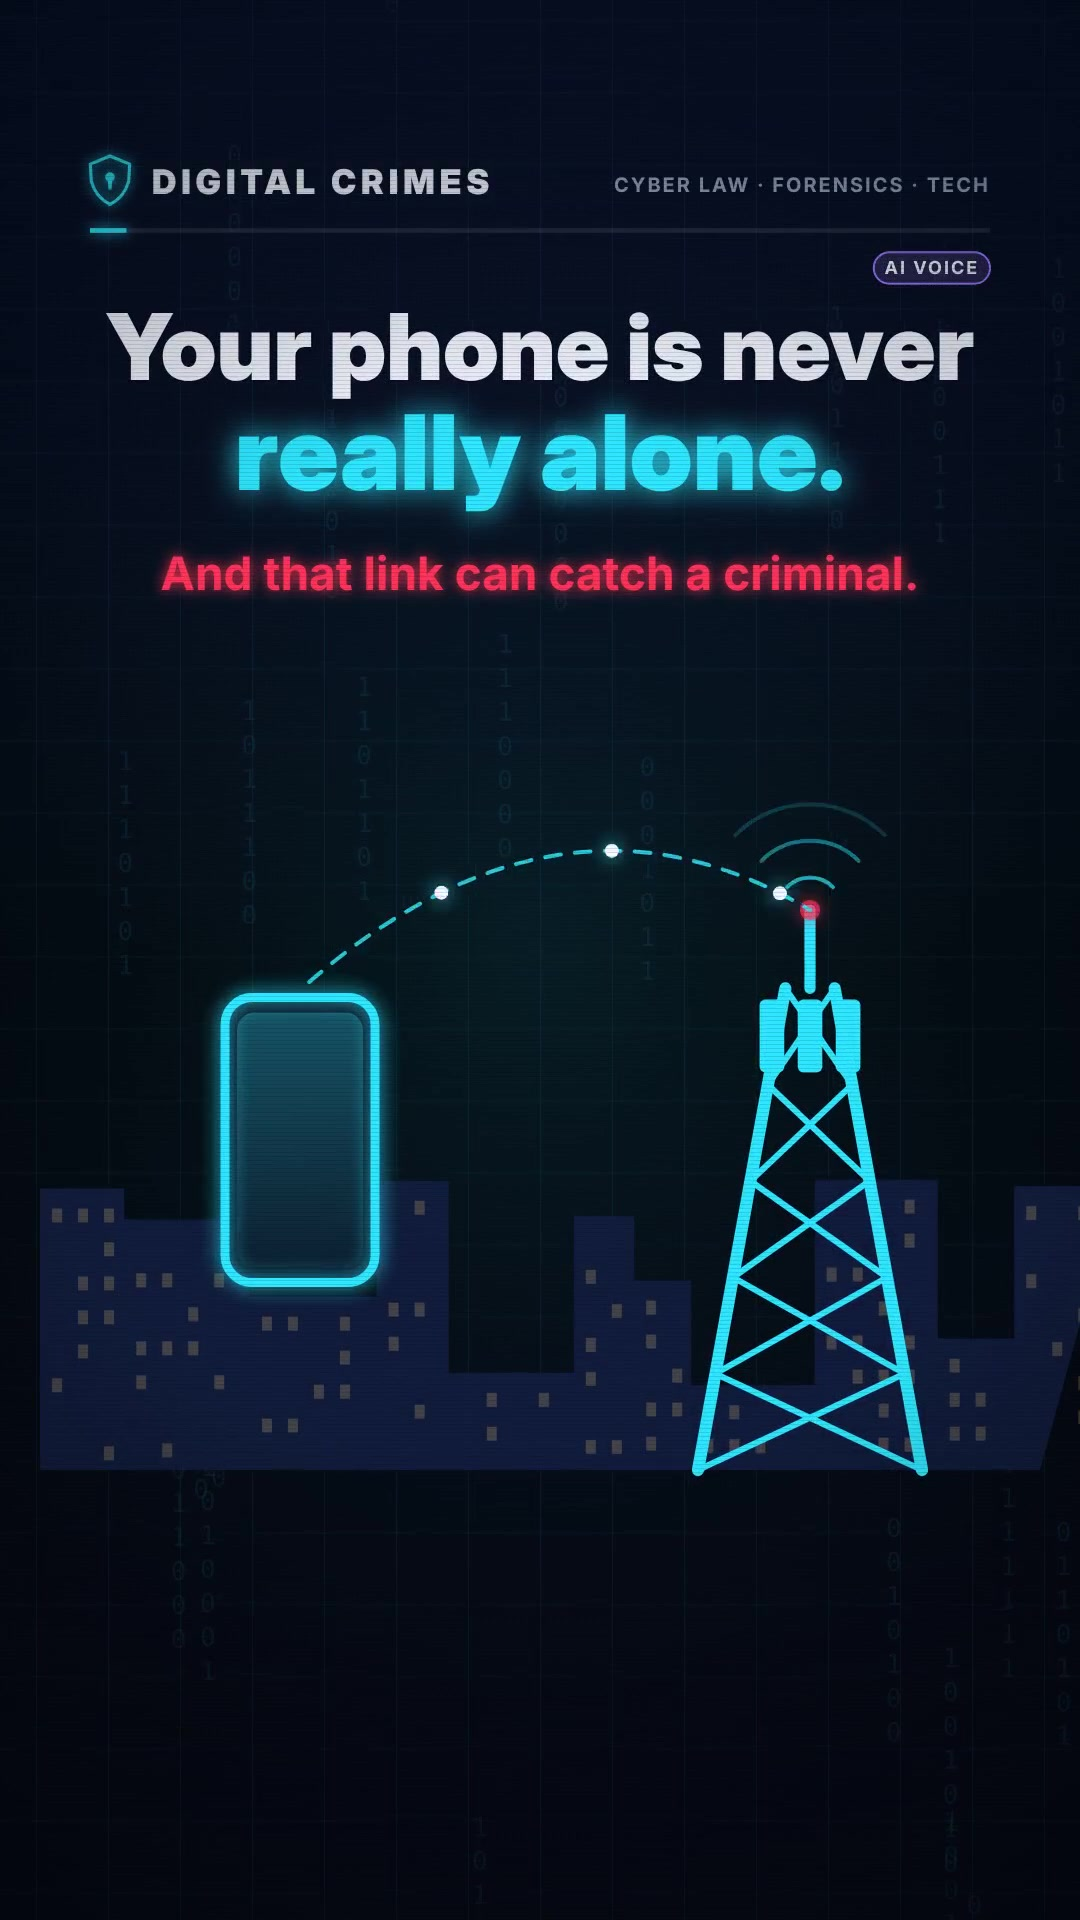
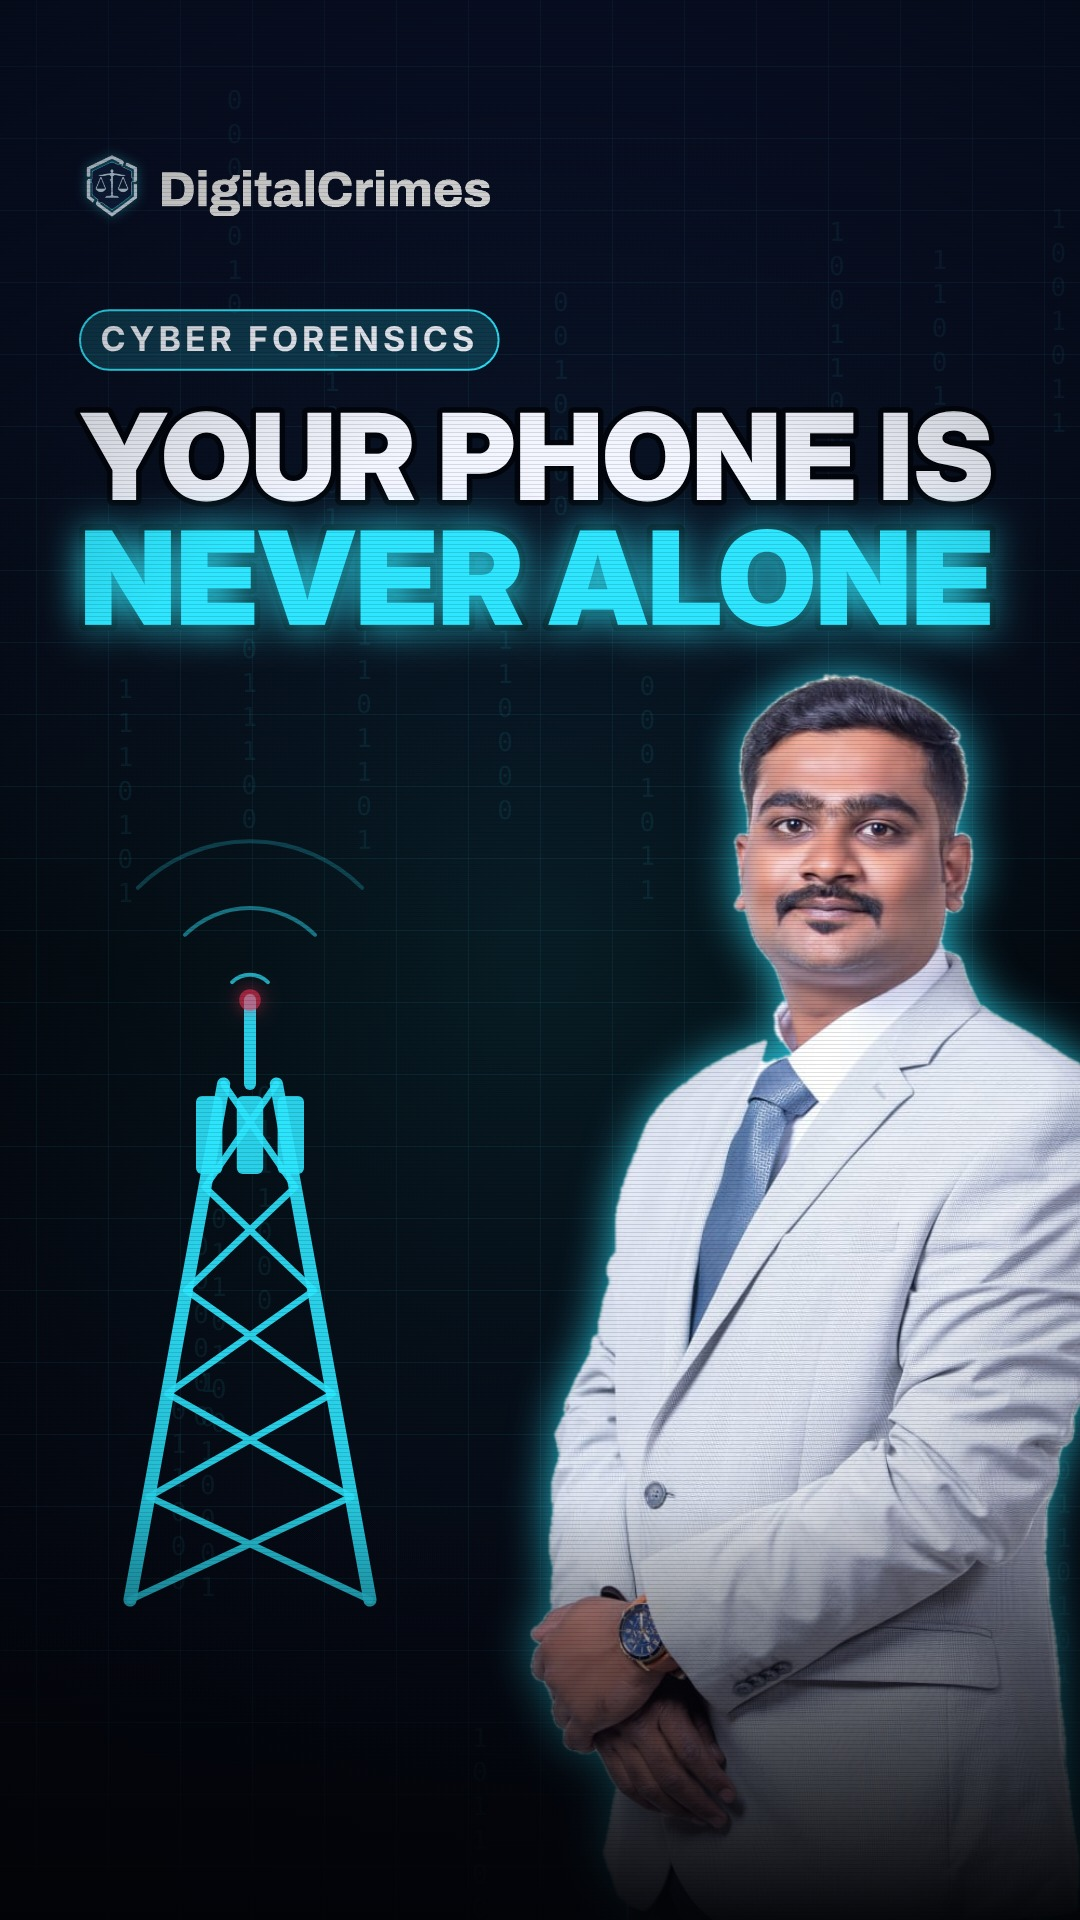
Owner's cover photos; cover layout keeps the face clear of the hook; EP01 cover with photo
Claude-Session: https://claude.ai/code/session_014nqfkbysfnT8S8tPzyjyoz

diff --git a/engine/reel_template.html b/engine/reel_template.html
@@ -185,16 +185,18 @@ function outro(lt,laws){logoHUD(540,800,190,lt);
 // inside the profile-grid crop (y 240-1680).
 const PERSON=new Image();let PERSON_OK=false;
 function drawCover(){const C=window.EPISODE.coverSpec;if(!C)return false;ctx.setTransform(1,0,0,1,0,0);bg(3.0);
-  const P=PERSON_OK;if(C.visual)C.visual(P);
-  if(P){const h=1250,s=h/PERSON.height,w=PERSON.width*s,x=1080-w+(C.personShift||90),y=1780-h;
-    ctx.save();ctx.shadowColor='rgba(46,230,255,0.85)';ctx.shadowBlur=46;ctx.drawImage(PERSON,x,y,w,h);ctx.restore();
-    ctx.save();ctx.globalCompositeOperation='source-atop';const rg=ctx.createLinearGradient(x,0,x+w,0);rg.addColorStop(0,'rgba(46,230,255,0.10)');rg.addColorStop(0.5,'rgba(0,0,0,0)');ctx.fillStyle=rg;ctx.fillRect(x,y,w,h);ctx.restore();}
-  const g=ctx.createLinearGradient(0,1480,0,1920);g.addColorStop(0,'rgba(3,5,11,0)');g.addColorStop(1,'rgba(3,5,11,0.96)');ctx.fillStyle=g;ctx.fillRect(0,1480,1080,440);
+  const P=PERSON_OK;
+  // headline geometry first, so the face never sits under the text
+  const x=P?80:540,maxW=P?920:940;let y=P?500:600;const L=C.lines.map(([t,c])=>{const sz=fit(t,900,DISP,maxW,P?150:180);const o={t,c,sz,y};y+=sz*1.04;return o;});
+  const textBottom=y-(L.length?L[L.length-1].sz*1.04:0)+28;
+  if(C.visual)C.visual(P);
+  if(P){const h=C.personH||1300,s=h/PERSON.height,w=PERSON.width*s,px=1080-w+(C.personShift??60),py=Math.max(textBottom+20,C.personTop||0);
+    ctx.save();ctx.shadowColor='rgba(46,230,255,0.85)';ctx.shadowBlur=46;ctx.drawImage(PERSON,px,py,w,h);ctx.restore();}
+  const g=ctx.createLinearGradient(0,1500,0,1920);g.addColorStop(0,'rgba(3,5,11,0)');g.addColorStop(1,'rgba(3,5,11,0.96)');ctx.fillStyle=g;ctx.fillRect(0,1500,1080,420);
   if(C.tag)pill(P?80:540,340,C.tag,C.tagColor||COL.cyan,{size:34,ls:4,align:P?'left':'center',fillA:'33'});
-  const maxW=P?620:940,x=P?80:540;let y=P?540:600;
-  C.lines.forEach(([t,c])=>{const sz=fit(t,900,DISP,maxW,P?150:180);ctx.save();ctx.font=font(900,sz,DISP);ctx.textAlign=P?'left':'center';ctx.lineJoin='round';
+  L.forEach(({t,c,sz,y})=>{ctx.save();ctx.font=font(900,sz,DISP);ctx.textAlign=P?'left':'center';ctx.lineJoin='round';
     ctx.lineWidth=sz*0.09;ctx.strokeStyle='rgba(2,4,10,0.9)';ctx.strokeText(t,x,y);ctx.fillStyle=c||COL.white;if(c&&c!==COL.white){ctx.shadowColor=c;ctx.shadowBlur=40;}
-    ctx.fillText(t,x,y);ctx.restore();y+=sz*1.04;});
+    ctx.fillText(t,x,y);ctx.restore();});
   logoMark(112,186,34);brand(162,208,46);overlay();return true;}
 window.renderCover=(q=0.92)=>drawCover()?cv.toDataURL('image/jpeg',q):null;
 
@@ -366,9 +368,9 @@ window.EPISODE={
   aiVoice:false,            // set by render.py when the cloned-voice track is used
   laws:'BNSS 2023 · BSA 2023 · DoT Unified Licence',
   cover:[0,4.2],            // fallback cover frame [scene index, local time] when there is no coverSpec
-  coverSpec:{tag:'CYBER FORENSICS',lines:[['YOUR PHONE',COL.white],['IS NEVER',COL.white],['ALONE',COL.cyan]],
-    person:null,           // e.g. 'people/shocked_phone.png' (owner's own cut-out photo)
-    visual:P=>{ctx.save();ctx.globalAlpha=0.9;tower(P?330:540,1560,P?560:640,COL.cyan,0.6);waves(P?330:540,P?1000:920,0.4,COL.cyan,3,200,0.9);ctx.restore();}},
+  coverSpec:{tag:'CYBER FORENSICS',lines:[['YOUR PHONE IS',COL.white],['NEVER ALONE',COL.cyan]],
+    person:'people/grey_blazer_tie.png', // owner's cut-out from assets/people/ (rotate daily; null = no photo)
+    visual:P=>{ctx.save();ctx.globalAlpha=0.9;tower(P?250:540,1600,P?600:640,COL.cyan,0.6);waves(P?250:540,P?1000:960,0.4,COL.cyan,3,200,0.9);ctx.restore();}},
   scenes:[
     {id:'hook',fn:sHook,dur:8.0,min:5.0,pops:[[0.2,660],[0.55,880],[1.0,520,0.1]],risers:[2.8],impacts:[[3.4,0.8,16]],
      vo:'Your phone is never really alone. It stays connected to a mobile tower, and that connection can catch a criminal.'},

diff --git a/assets/people/README.md b/assets/people/README.md
@@ -1,7 +1,14 @@
 # Owner's cut-out photos for reel covers
 
-Transparent PNG cut-outs of the channel owner only (waist-up works best), e.g.
-`shocked_phone.png`, `pointing_up.png`, `explaining.png`, `serious_arms_crossed.png`, `thinking.png`.
+| File | Look |
+| --- | --- |
+| grey_blazer_tie.png | light grey blazer, blue tie, three-quarter turn |
+| grey_blazer.png | light grey blazer, light blue shirt, three-quarter turn |
+| black_suit_front.png | black suit, white shirt, facing camera |
+| black_suit_side.png | black suit, white shirt, three-quarter turn |
+| black_suit_glasses.png | black suit, glasses, three-quarter turn |
 
-Rules: owner only (no other people), no advocate robes or bands, no court, chamber or office backdrop,
-no "Advocate" title or contact details on the photo. Never use AI-generated people or strangers' photos.
+Rotate: never the same photo two days running; light blazers stand out most on the dark covers.
+Rules: owner only, no robes or bands, no court/chamber backdrop, no "Advocate" title or contact details.
+Never use AI-generated people or strangers' photos. More expressions (shocked, pointing, explaining)
+can be added here as transparent PNGs.
